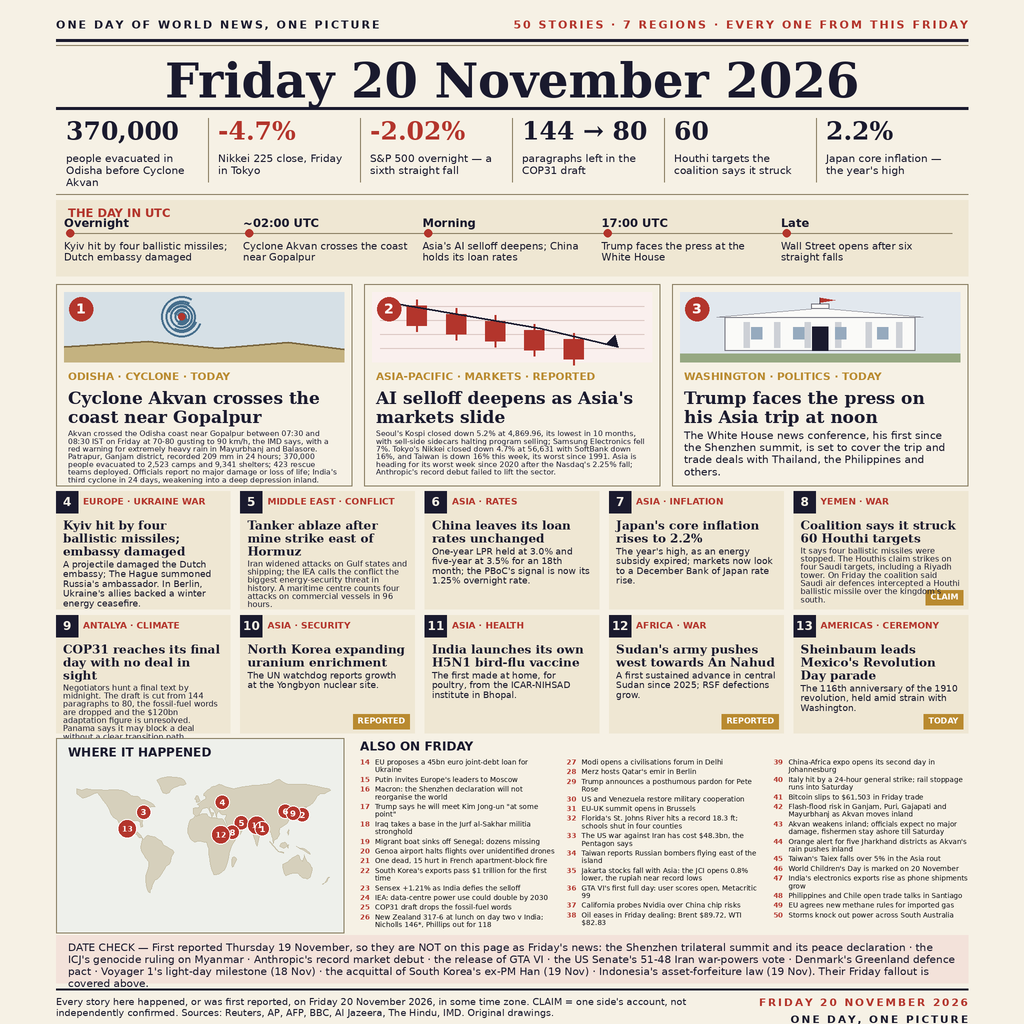
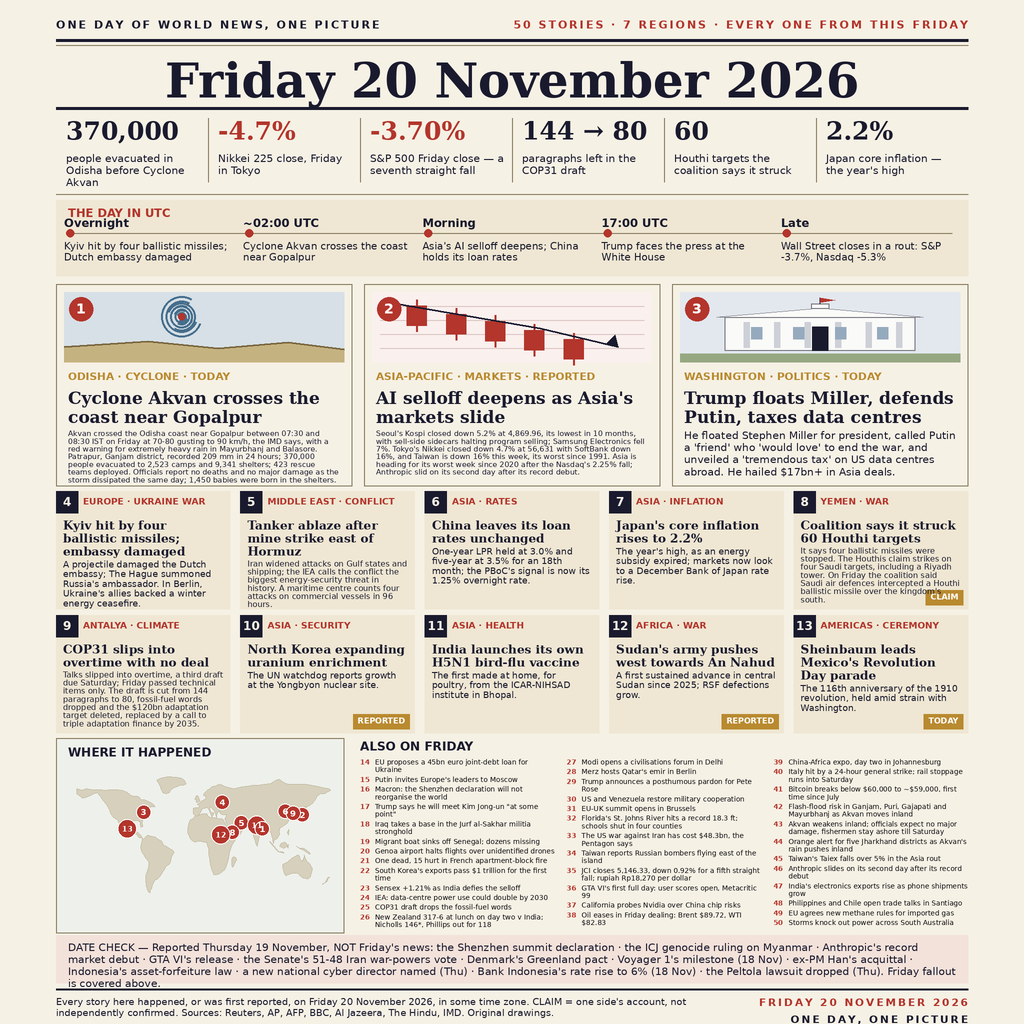
v12: Friday completed — Trump presser, COP31 overtime, Wall St close, JCI close, Akvan final

diff --git a/build_poster.py b/build_poster.py
@@ -130,7 +130,7 @@ hline(MX, 1024 - MX, 108, INK, 3)
 stats = [
     ("370,000", "people evacuated in Odisha before Cyclone Akvan"),
     ("-4.7%", "Nikkei 225 close, Friday in Tokyo"),
-    ("-2.02%", "S&P 500 overnight — a sixth straight fall"),
+    ("-3.70%", "S&P 500 Friday close — a seventh straight fall"),
     ("144 → 80", "paragraphs left in the COP31 draft"),
     ("60", "Houthi targets the coalition says it struck"),
     ("2.2%", "Japan core inflation — the year's high"),
@@ -156,7 +156,7 @@ stops = [
     ("~02:00 UTC", "Cyclone Akvan crosses the coast near Gopalpur"),
     ("Morning", "Asia's AI selloff deepens; China holds its loan rates"),
     ("17:00 UTC", "Trump faces the press at the White House"),
-    ("Late", "Wall Street opens after six straight falls"),
+    ("Late", "Wall Street closes in a rout: S&P -3.7%, Nasdaq -5.3%"),
 ]
 sw = (CW - 16) / 5
 bf, df = sans_b(11.5), sans(10)
@@ -223,11 +223,11 @@ def art_whitehouse(x, y, w, h):
 # ---------------------------------------------------------------- 5. hero cards
 heroes = [
     ("1", "ODISHA · CYCLONE · TODAY", "Cyclone Akvan crosses the coast near Gopalpur",
-     "Akvan crossed the Odisha coast near Gopalpur between 07:30 and 08:30 IST on Friday at 70-80 gusting to 90 km/h, the IMD says, with a red warning for extremely heavy rain in Mayurbhanj and Balasore. Patrapur, Ganjam district, recorded 209 mm in 24 hours; 370,000 people evacuated to 2,523 camps and 9,341 shelters; 423 rescue teams deployed. Officials report no major damage or loss of life; India's third cyclone in 24 days, weakening into a deep depression inland.", art_storm),
+     "Akvan crossed the Odisha coast near Gopalpur between 07:30 and 08:30 IST on Friday at 70-80 gusting to 90 km/h, the IMD says, with a red warning for extremely heavy rain in Mayurbhanj and Balasore. Patrapur, Ganjam district, recorded 209 mm in 24 hours; 370,000 people evacuated to 2,523 camps and 9,341 shelters; 423 rescue teams deployed. Officials report no deaths and no major damage as the storm dissipated the same day; 1,450 babies were born in the shelters.", art_storm),
     ("2", "ASIA-PACIFIC · MARKETS · REPORTED", "AI selloff deepens as Asia's markets slide",
-     "Seoul's Kospi closed down 5.2% at 4,869.96, its lowest in 10 months, with sell-side sidecars halting program selling; Samsung Electronics fell 7%. Tokyo's Nikkei closed down 4.7% at 56,631 with SoftBank down 16%, and Taiwan is down 16% this week, its worst since 1991. Asia is heading for its worst week since 2020 after the Nasdaq's 2.25% fall; Anthropic's record debut failed to lift the sector.", art_chart),
-    ("3", "WASHINGTON · POLITICS · TODAY", "Trump faces the press on his Asia trip at noon",
-     "The White House news conference, his first since the Shenzhen summit, is set to cover the trip and trade deals with Thailand, the Philippines and others.", art_whitehouse),
+     "Seoul's Kospi closed down 5.2% at 4,869.96, its lowest in 10 months, with sell-side sidecars halting program selling; Samsung Electronics fell 7%. Tokyo's Nikkei closed down 4.7% at 56,631 with SoftBank down 16%, and Taiwan is down 16% this week, its worst since 1991. Asia is heading for its worst week since 2020 after the Nasdaq's 2.25% fall; Anthropic slid on its second day after its record debut.", art_chart),
+    ("3", "WASHINGTON · POLITICS · TODAY", "Trump floats Miller, defends Putin, taxes data centres",
+     "He floated Stephen Miller for president, called Putin a 'friend' who 'would love' to end the war, and unveiled a 'tremendous tax' on US data centres abroad. He hailed $17bn+ in Asia deals.", art_whitehouse),
 ]
 hy = 284
 hw = (CW - 24) / 3
@@ -247,6 +247,13 @@ for i, (num, tag, head, dek, art) in enumerate(heroes):
     # shelter count), so it drops to 7.5/1.03. In v11 it gains the afternoon
     # outcome (no major damage reported; third cyclone in 24 days; weakening
     # into a deep depression) and runs 7 lines at 7.5/1.03, ~3px to spare.
+    # v12 swaps in the final outcome (dissipated the same day, no deaths,
+    # 1,450 babies born in the shelters) and drops the third-cyclone clause;
+    # still 7 lines at 7.5/1.03, ~3px to spare. Hero 3's v12 dek (Miller
+    # float, Putin defence, data-centre tax) runs 4 lines at 10.5/1.15, inside
+    # the card with ~9px to spare. (A 5-line draft with "chief of staff" and
+    # "US firms building" touched the card's bottom border, so it was trimmed
+    # to this 4-line wording instead.)
     # Hero 2's v11 dek (Kospi close, Samsung, sidecars) no longer fits at
     # 8.5/1.08, so it joins hero 1 at 7.5/1.03 — 6 lines.
     hdkf = {"1": sans(7.5), "2": sans(7.5)}.get(num, dkf)
@@ -265,8 +272,8 @@ cards = [
      "The year's high, as an energy subsidy expired; markets now look to a December Bank of Japan rate rise."),
     ("8", "YEMEN · WAR", "CLAIM", "Coalition says it struck 60 Houthi targets",
      "It says four ballistic missiles were stopped. The Houthis claim strikes on four Saudi targets, including a Riyadh tower. On Friday the coalition said Saudi air defences intercepted a Houthi ballistic missile over the kingdom's south."),
-    ("9", "ANTALYA · CLIMATE", None, "COP31 reaches its final day with no deal in sight",
-     "Negotiators hunt a final text by midnight. The draft is cut from 144 paragraphs to 80, the fossil-fuel words are dropped and the $120bn adaptation figure is unresolved. Panama says it may block a deal without a clear transition path."),
+    ("9", "ANTALYA · CLIMATE", None, "COP31 slips into overtime with no deal",
+     "Talks slipped into overtime, a third draft due Saturday; Friday passed technical items only. The draft is cut from 144 paragraphs to 80, fossil-fuel words dropped and the $120bn adaptation target deleted, replaced by a call to triple adaptation finance by 2035."),
     ("10", "ASIA · SECURITY", "REPORTED", "North Korea expanding uranium enrichment",
      "The UN watchdog reports growth at the Yongbyon nuclear site."),
     ("11", "ASIA · HEALTH", None, "India launches its own H5N1 bird-flu vaccine",
@@ -409,18 +416,18 @@ briefs = [
     "Florida's St. Johns River hits a record 18.3 ft; schools shut in four counties",
     "The US war against Iran has cost $48.3bn, the Pentagon says",
     "Taiwan reports Russian bombers flying east of the island",
-    "Jakarta stocks fall with Asia: the JCI opens 0.8% lower, the rupiah near record lows",
+    "JCI closes 5,146.33, down 0.92% for a fifth straight fall; rupiah Rp18,270 per dollar",
     "GTA VI's first full day: user scores open, Metacritic 99",
     "California probes Nvidia over China chip risks",
     "Oil eases in Friday dealing: Brent $89.72, WTI $82.83",
-    "China-Africa expo opens its second day in Johannesburg",
+    "China-Africa expo, day two in Johannesburg",
     "Italy hit by a 24-hour general strike; rail stoppage runs into Saturday",
-    "Bitcoin slips to $61,503 in Friday trade",
+    "Bitcoin breaks below $60,000 to ~$59,000, first time since July",
     "Flash-flood risk in Ganjam, Puri, Gajapati and Mayurbhanj as Akvan moves inland",
     "Akvan weakens inland; officials expect no major damage, fishermen stay ashore till Saturday",
     "Orange alert for five Jharkhand districts as Akvan's rain pushes inland",
     "Taiwan's Taiex falls over 5% in the Asia rout",
-    "World Children's Day is marked on 20 November",
+    "Anthropic slides on its second day after its record debut",
     "India's electronics exports rise as phone shipments grow",
     "Philippines and Chile open trade talks in Santiago",
     "EU agrees new methane rules for imported gas",
@@ -441,6 +448,10 @@ bcolw = (aw - 24) / 3
 # trade talks, EU methane, South Australia storm) for 37 briefs / 50
 # stories — still at the fixed 7.25pt; the inter-brief gap eases 2.25 ->
 # 2.0 and the taller band (see section 7 header) absorbs the rest.
+# v12: still 37 briefs / 50 stories at the fixed 7.25pt — the Children's Day
+# brief is displaced by Anthropic's second-day slide, the Bitcoin brief moves
+# below $60,000, the Jakarta brief takes the JCI close, and the China-Africa
+# brief is tightened one line (same facts) so the tallest column still fits.
 BRIEFINK = (10, 10, 14)
 bfs, blead, bgap = 7.25, 1.10, 2.0
 bff = sans(bfs)
@@ -474,12 +485,13 @@ for col, chunk in enumerate(chunks):
 dy = by + bh + 2
 d.rectangle([X(MX), X(dy), X(1024 - MX), X(dy + 48)], fill=REDBAND)
 dcf = sans(10.5)
-dc = ("DATE CHECK — First reported Thursday 19 November, so they are NOT on this page as Friday's news: "
-      "the Shenzhen trilateral summit and its peace declaration · the ICJ's genocide ruling on Myanmar · "
-      "Anthropic's record market debut · the release of GTA VI · the US Senate's 51-48 Iran war-powers vote · "
-      "Denmark's Greenland defence pact · Voyager 1's light-day milestone (18 Nov) · "
-      "the acquittal of South Korea's ex-PM Han (19 Nov) · Indonesia's asset-forfeiture law (19 Nov). "
-      "Their Friday fallout is covered above.")
+dc = ("DATE CHECK — Reported Thursday 19 November, NOT Friday's news: "
+      "the Shenzhen summit declaration · the ICJ genocide ruling on Myanmar · "
+      "Anthropic's record market debut · GTA VI's release · the Senate's 51-48 Iran war-powers vote · "
+      "Denmark's Greenland pact · Voyager 1's milestone (18 Nov) · "
+      "ex-PM Han's acquittal · Indonesia's asset-forfeiture law · "
+      "a new national cyber director named (Thu) · Bank Indonesia's rate rise to 6% (18 Nov) · "
+      "the Peltola lawsuit dropped (Thu). Friday fallout is covered above.")
 draw_lines(MX + 12, dy + 6, wrap(dc, dcf, CW - 24), dcf, INK, 1.15)
 
 # ---------------------------------------------------------------- 9. footer
